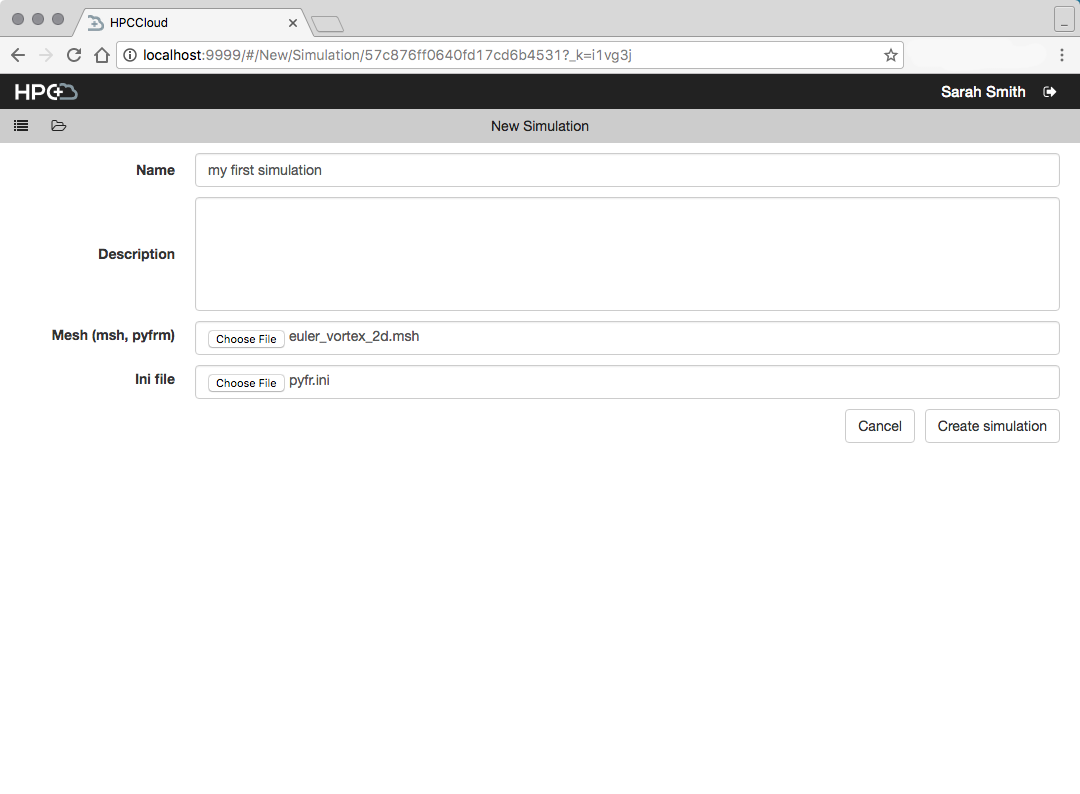
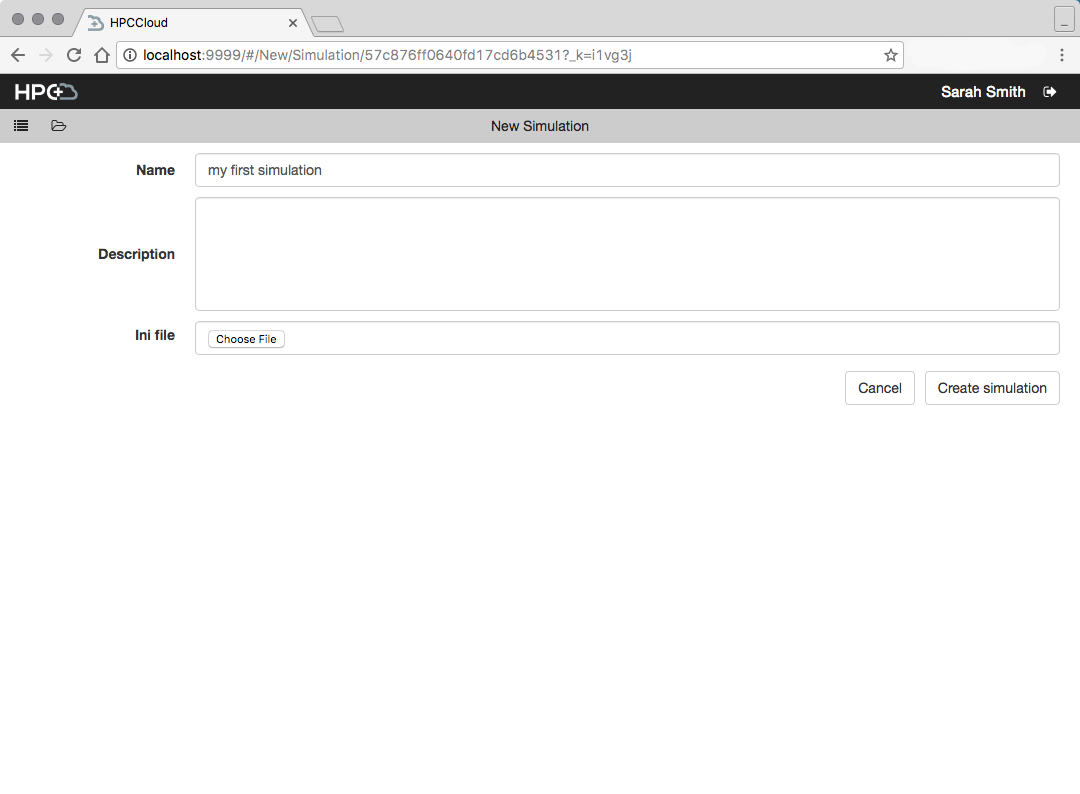
updated docs to new project and simulation formats

Changed region(s): [[0.0306, 0.3929, 0.3667, 0.5139], [0.7944, 0.4534, 0.9778, 0.5441]]

diff --git a/docs/content/docs/usage__running.md b/docs/content/docs/usage__running.md
@@ -5,17 +5,18 @@ For this example we're going to run a basic PyFR simulation. There are sample fi
 ## Running
 
 0. Create a traditional cluster or an AWS Profile which you can use. If you do not have access to either you can run the simulation in your VM by setting the environment variable `DEMO=1` before provisioning.
-1. Create a project and select the type 'pyfr-exec', name it whatever you wish. 
-2. Create a simulation, the input files mentioned above are required. Name the simulation whatever you wish.  
+1. Create a project and select the type 'pyfr', name it whatever you wish.
+2. Add the files (mentioned above) `euler_vortex_2d.msh` and `euler_vortex_2d.ini` to the Mesh and Ini fields respectively.
+3. Create a simulation, name the simulation whatever you wish, leave the Ini field blank, it will get inherited from the project.  
 ![create simulation page](usage__images/simulation-create.png)
-3. Go to your new simulation and click on the "Simulation" step in the left side bar.
+4. Go to your new simulation and click on the "Simulation" step in the left side bar.
 ![simulation step](usage__images/simulation-view.png)
-4. Here you can select your cluster or AWS Profile to use. If you've set the environment variable `DEMO=1` then the cluster you seek is under the "Traditional" cluster type option.
-5. Click "Run Simulation" and you'll be taken to the Simulation view sub-step. Here you can view logs and statuses of both tasks and jobs.  
+5. Here you can select your cluster or AWS Profile to use. If you've set the environment variable `DEMO=1` then the cluster you seek is under the "Traditional" cluster type option.
+6. Click "Run Simulation" and you'll be taken to the Simulation view sub-step. Here you can view logs and statuses of both tasks and jobs.  
 ![a running simulation](usage__images/simulation-run.png)
 When they all reach the "Complete" status your simulation has completed! A button "Visualize" will appear. Clicking on it will activate and take you to the disabled "Visualization" step in the sidebar.
-6. Here in the visualization step you will run Paraview web and view the output of your simulation. So that Paraview has access to the simulation output, it must be run on the same machine as the simulation. Select the server and click "Start Visualization." You'll be taken to a job monitor page similar to the one for the Simulation step described in step 5.
-7. Wait for the tasks to complete, and the primary job (ParaViewWeb) to be running. A button labeled "Visuzalize" will appear. Clicking this will take you to a ParaViewWeb tool in your browser where you can view and manipulate the output of your simulation.
+7. Here in the visualization step you will run Paraview web and view the output of your simulation. So that Paraview has access to the simulation output, it must be run on the same machine as the simulation. Select the server and click "Start Visualization." You'll be taken to a job monitor page similar to the one for the Simulation step described in step 5.
+8. Wait for the tasks to complete, and the primary job (ParaViewWeb) to be running. A button labeled "Visuzalize" will appear. Clicking this will take you to a ParaViewWeb tool in your browser where you can view and manipulate the output of your simulation.
 
 ![visualizer](usage__images/simulation-viz.png)
 

diff --git a/docs/content/docs/usage__creating.md b/docs/content/docs/usage__creating.md
@@ -6,7 +6,7 @@ Projects contain simulations of a certain type. Go to `/` or click on the HPC-Cl
 
 ### Creating 
 
-Click on the "+" icon on the top right in the toolbar, this will take you to a new page. On this page name and describe your project. Depending on the project type, you may also need to upload some files required for simulations. Name your project and add a description if desired. Click "Create Project" and after your file(s) upload you'll be taken to the simulations page for your new project. 
+Click on the "+" icon on the top right in the toolbar, this will take you to a new page. Name and describe your project on this page. Depending on the project type, you may also need to upload some files required for simulations. Name your project and add a description if desired. Click "Create Project" and after your file(s) upload you'll be taken to the simulations page for your new project. 
 
 ### Editing 
 If you named or described your project incorrectly click on the pen icon on the homepage and modify these attributes. You cannot reupload files if the project required any.

diff --git a/docs/content/docs/usage__simput.md b/docs/content/docs/usage__simput.md
@@ -2,7 +2,13 @@
 
 Simput is a tool for simplifying the process of writing and editing simulation input files. It can be a standalone tool but for HPCCloud we've integrated it to support input generation for simulations such as PyFR.
 
-## Usage with PyFR - euler-vortex-2d
+## Usage 
+
+### Parsed input
+
+If you uploaded a file to the parent project or simulation, and the simulation type is supported by Simput then the input file will be parsed and displayed for editing. Otherwise the fields will be blank and ready for your input.
+
+### Manual input for PyFR - euler-vortex-2d
 
 This example will lead you through the creation of an input file for PyFR using SimPut. You will create an input file that can be used with one of PyFR's [examples](https://github.com/vincentlab/PyFR/blob/develop/examples/euler_vortex_2d/).
 
